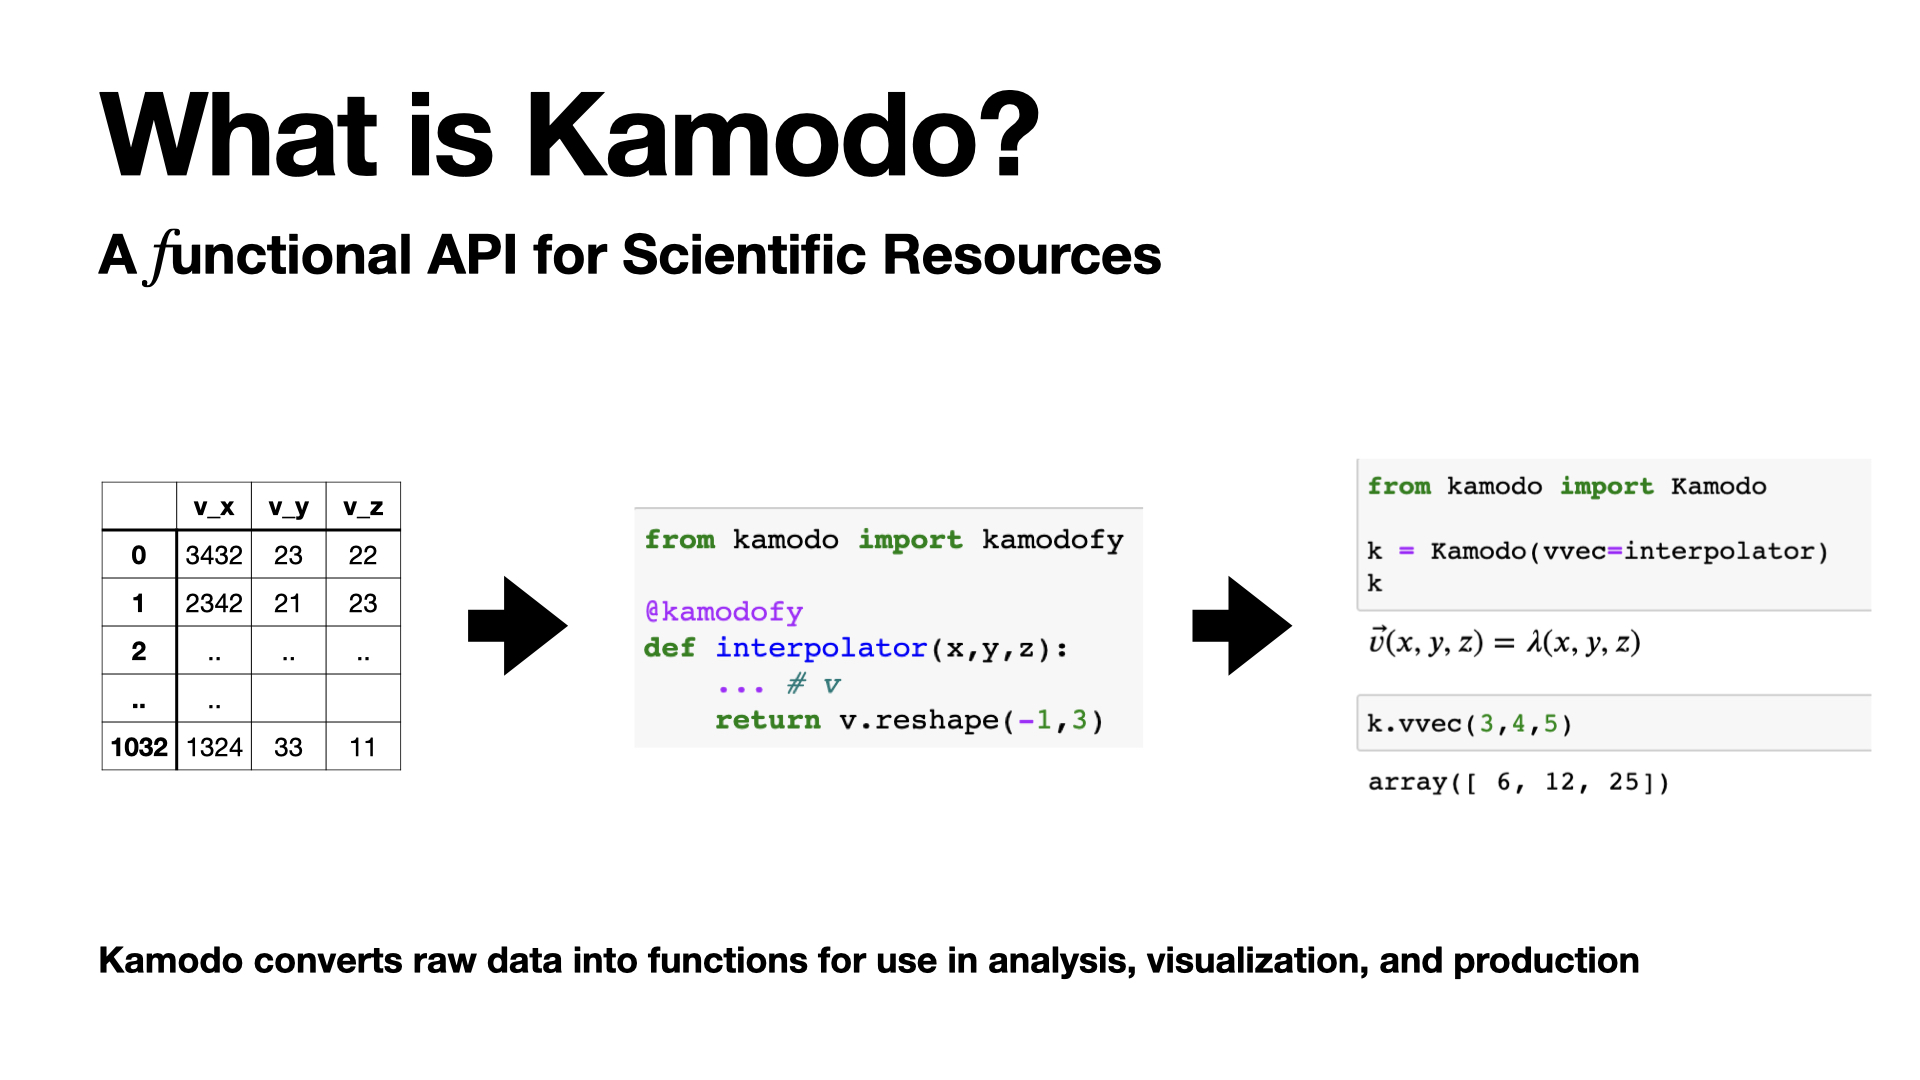
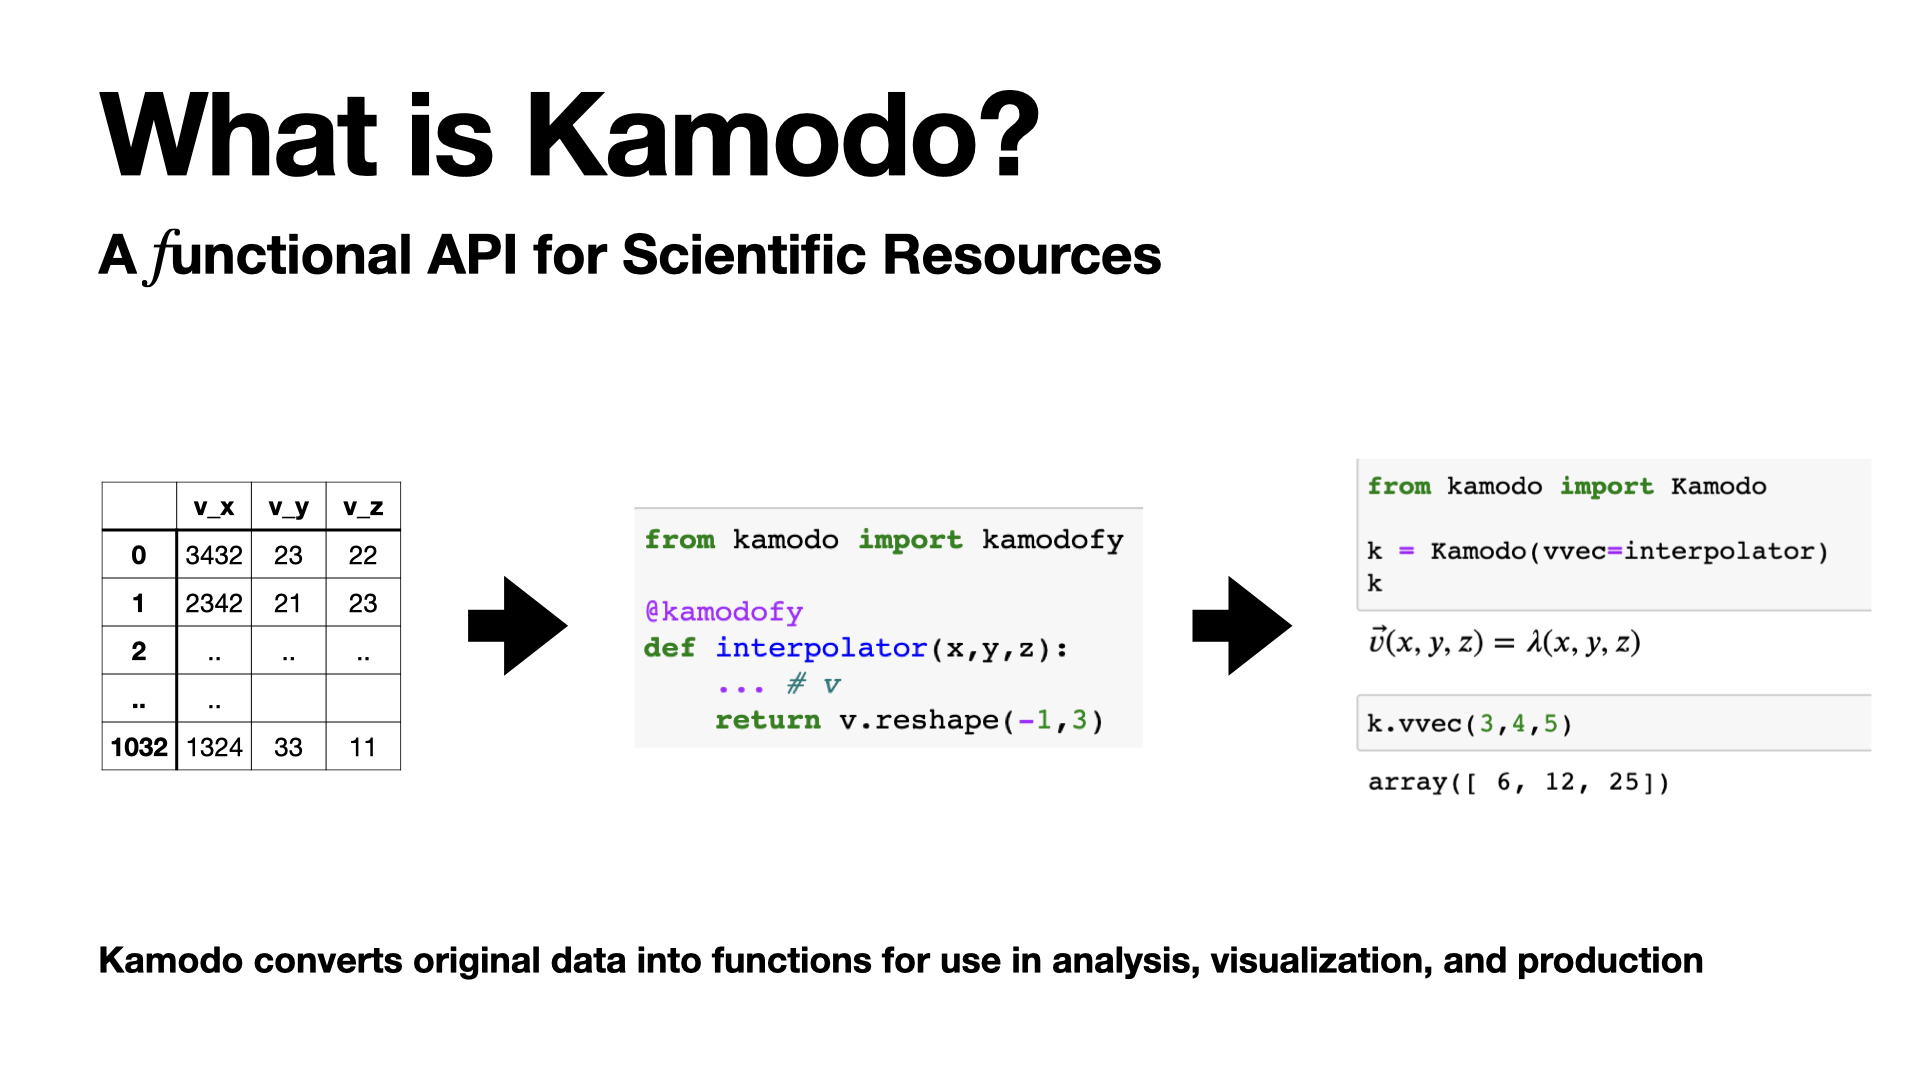
raw to original, expression solver

Changed region(s): [[0.2188, 0.8556, 0.9062, 0.9167]]

diff --git a/docs/kamodo-tutorial/00-Introduction-to-Kamodo.md b/docs/kamodo-tutorial/00-Introduction-to-Kamodo.md
@@ -14,9 +14,6 @@ Special Thanks: Laura Hayes
 ![what is kamodo](WhatIsKamodo/WhatIsKamodo.001.jpeg)
 
 
-Kamodo converts "original" data into functions...
-
-
 ### What is a scientific resource?
 
 Mirriam-Webster Definition of resource:
@@ -58,6 +55,7 @@ Functions represent the physical state of the systems we are investigating
 * Derived variables (e.g. $ P_{ram} = \rho v^2 $)
 * Coordinate transformations
 * Images (pixel coordinates)
+* **solutions** to differential equations
 
 Functions may readily be used downstream:
 * Evaluation
@@ -77,11 +75,14 @@ APIs help us communicate with data living in:
 * file formats (hdf, netcdf)
 * libraries
 
+### What is *functional* API?
+
 A *functional API* focuses on provides access to information in the form of functions, rather than the underlying data or objects themselves.
 
 * low barrier to entry
 * (mostly) self-describing
-* almost no side effects
+* (almost) no side effects
 * ammenable to functional programing techniques
+* compatible with AI/ML
 
 <!-- #endregion -->

diff --git a/docs/kamodo-tutorial/01-Functions.md b/docs/kamodo-tutorial/01-Functions.md
@@ -14,6 +14,8 @@ jupyter:
 
 ## Functions
 
+Functions may be represented by many implementations/expressions (think right-hand-side)
+
 ### Closed form expressions (formulas)
 
 
@@ -59,6 +61,33 @@ expr.subs(dict(x='y-1'))
 
 ```python
 expr.free_symbols
+```
+
+**solutions**
+
+```python
+expr # solve for f(x) = 0
+```
+
+```python
+from sympy import solve, symbols
+
+zeros =  solve(expr, symbols('x')) 
+zeros[0]
+```
+
+```python
+zeros[1]
+```
+
+**numerical evaluation**
+
+```python
+zeros[0].evalf()
+```
+
+```python
+zeros[1].evalf()
 ```
 
 **type repr**

diff --git a/worklogs/Pembroke.md b/worklogs/Pembroke.md
@@ -1,3 +1,4 @@
+* raw to original, expression solver
 ### 2022-05-10 17:35:14.991799: clock-out
 
 * started visualization lesson
